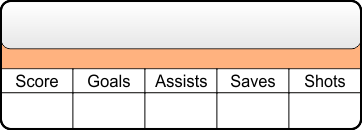
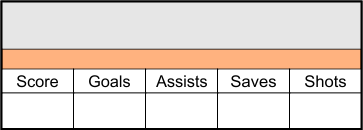
Update design and use boost data instead.

Changed region(s): [[0.0, 0.0, 1.0, 1.0]]

diff --git a/rocketleagueminimapgenerator/render/player_data_scoreboard_with_drive.py b/rocketleagueminimapgenerator/render/player_data_scoreboard_with_drive.py
@@ -70,7 +70,8 @@ def render_player_data_scoreboard_with_drive_frame(frames, frame_num,
                             saves=player_scoreboard['saves'],
                             shots=player_scoreboard['shots'],
                             sleep=str(player_frame_info['sleep'])[0],
-                            ping=player_frame_info['ping'],
+                            boost='{0:03d}'.format(
+                                player_frame_info['boost'] * 100),
                             throttle_w=throttle_w,
                             throttle_x=throttle_x,
                             steer=(player_frame_info['steer'] * 180) - 90

diff --git a/rocketleagueminimapgenerator/render/player_data_drive.py b/rocketleagueminimapgenerator/render/player_data_drive.py
@@ -68,7 +68,8 @@ def render_player_data_drive_frame(frames, frame_num, out_prefix):
                             saves=player_scoreboard['saves'],
                             shots=player_scoreboard['shots'],
                             sleep=str(player_frame_info['sleep'])[0],
-                            ping=player_frame_info['ping'],
+                            boost='{0:03d}'.format(
+                                player_frame_info['boost'] * 100),
                             throttle_x=throttle_x,
                             throttle_w=throttle_w,
                             steer=(player_frame_info['steer'] * 180) - 90

diff --git a/README.md b/README.md
@@ -1,6 +1,6 @@
 # Rocket League Minimap Generator
 
-**Version:** v1.1.2
+**Version:** v1.2.0
 
 ## Installation
 
